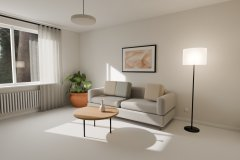
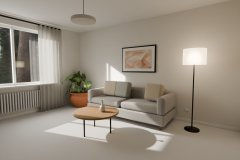
Гостиная (3D): отражения окна и мебели в ламинате (отдельный слой рендера), складки на ткани, эффекты объектива

diff --git a/photo.js b/photo.js
@@ -6,7 +6,7 @@
 //  3) Свет и тени берём с исходного фото: размытая яркость пола / средняя яркость пола.
 import * as THREE from 'three';
 
-const MASK_V = 'v52'; // версия масок = версия сайта (меняется вместе с ?v=), иначе телефон берёт старые из кэша
+const MASK_V = 'v53'; // версия масок = версия сайта (меняется вместе с ?v=), иначе телефон берёт старые из кэша
 const DEFAULT_TEX_W_M = 1.3; // м пола по ширине фото декора (как в 3D)
 
 let renderer, scene, camera, mat, mesh, canvasEl;
@@ -26,7 +26,7 @@ export function initPhoto(canvas) {
   camera = new THREE.OrthographicCamera(-0.5, 0.5, 0.5, -0.5, 0, 1);
   mat = new THREE.ShaderMaterial({
     uniforms: {
-      photo: { value: null }, blurP: { value: null }, medP: { value: null }, gloss: { value: 0.35 }, mask: { value: null }, decor: { value: null },
+      photo: { value: null }, blurP: { value: null }, medP: { value: null }, gloss: { value: 0.35 }, reflT: { value: null }, reflOn: { value: 0 }, mask: { value: null }, decor: { value: null },
       Hinv: { value: new THREE.Matrix3() }, imgSize: { value: new THREE.Vector2(1, 1) },
       texM: { value: new THREE.Vector2(1.3, 0.8) }, meanL: { value: 0.5 }, rot: { value: 0 },
       meanC: { value: new THREE.Vector3(0.3, 0.3, 0.3) }, roomTint: { value: new THREE.Vector3(1, 1, 1) },
@@ -41,7 +41,7 @@ export function initPhoto(canvas) {
     fragmentShader: `
       precision highp float;
       varying vec2 vUv;
-      uniform sampler2D photo, blurP, medP, mask, decor; uniform float gloss;
+      uniform sampler2D photo, blurP, medP, mask, decor, reflT; uniform float gloss, reflOn;
       uniform mat3 Hinv; uniform vec2 imgSize, texM; uniform float meanL, rot, exposure, night, showGrid;
       uniform vec3 tint, meanC, roomTint; uniform vec4 crop; uniform vec2 lampFloor; uniform float hasLamp;
       uniform vec3 skCol; uniform float skOn, skL;
@@ -122,6 +122,8 @@ export function initPhoto(canvas) {
         float refl = max(lum(toLin(BM.rgb)) - lum(toLin(BL.rgb)) * 1.08, 0.0);
         float fres = mix(0.5, 1.3, smoothstep(0.0, 0.6, vUv.y));
         fl += vec3(refl * gloss * fres) * (1.0 - night);
+        // нарисованная комната: настоящие отражения (окно, мебель) из рендера глянцевого пола
+        fl += toLin(texture2D(reflT, uv).rgb) * 0.8 * reflOn * (1.0 - night);
         fl += vec3(0.06 * exp(-r * r / 0.5)) * night * ao * hasLamp; // отражение люстры — если отмечена
         // мягкое «плечо»: яркое не выгорает в белое пятно
         fl = mix(fl, 0.6 + 0.4 * (1.0 - exp(-(fl - 0.6) / 0.4)), step(0.6, fl));
@@ -395,13 +397,21 @@ export function showPhoto(data) {
       Object.assign(mat.uniforms, {});
       mat.uniforms.photo.value = c.photoTex; mat.uniforms.blurP.value = c.blurTex; mat.uniforms.medP.value = c.medTex;
       mat.uniforms.mask.value = c.maskTex; mat.uniforms.meanL.value = c.meanL; mat.uniforms.skL.value = c.skL;
+      mat.uniforms.reflT.value = c.reflTex || c.maskTex; mat.uniforms.reflOn.value = c.reflTex ? 1 : 0;
       mat.uniforms.meanC.value.set(...c.meanC); mat.uniforms.roomTint.value.set(...c.tint);
       updateGeometry(); fitCrop(); render(); ok();
     };
     if (cache[data.id] && cache[data.id].skH !== (skirt && skirt.h)) delete cache[data.id]; // другая высота плинтуса
     if (cache[data.id]) return done({ ...cache[data.id], data });
     const img = new Image();
-    let left = 2;          // ждём фото и уточнённую маску
+    let left = data.render ? 3 : 2;   // ждём фото и уточнённую маску (и отражения — у нарисованной комнаты)
+    let rf = null;
+    if (data.render) {
+      const r = new Image();
+      r.onload = () => { rf = r; ready(); };
+      r.onerror = () => ready();
+      r.src = (window.PHOTO_BASE || '') + 'data/photos/refl/' + data.id + '.jpg?v=' + MASK_V;
+    }
     const mk = new Image();
     mk.onload = () => { data._maskImg = mk; ready(); };
     mk.onerror = () => ready(); // маски нет — режем по многоугольникам
@@ -412,6 +422,7 @@ export function showPhoto(data) {
       data.img = data.img || [img.width, img.height];
       const mask = makeMask(data), light = makeLight(img, mask, !!data.render);
       const c = { photoTex: tex(img), blurTex: light.bigTex, medTex: light.medTex, maskTex: tex(mask), meanL: light.meanL,
+                  reflTex: rf && tex(rf),
                   meanC: light.meanC, tint: light.tint, skL: light.skL, img, skH: skirt && skirt.h };
       cache[data.id] = c;
       done({ ...c, data });

diff --git a/sw.js b/sw.js
@@ -1,8 +1,8 @@
 // Работа без интернета. После первого открытия файлы сайта хранятся в телефоне.
 // При изменении сайта увеличить номер версии — телефоны скачают новые файлы.
-const VERSION = 'v52';
-const FILES = ['./', 'index.html', 'style.css?v=52', 'calc.js?v=52', 'app.js?v=52', 'photo.js?v=52', 'data/photos.json', 'data/demo/laminate_floor_02.jpg',
-  'lib/three.module.min.js', 'lib/qrcode.js?v=52', 'manifest.json', 'icons/icon-192.png', 'data/catalog.json'];
+const VERSION = 'v53';
+const FILES = ['./', 'index.html', 'style.css?v=53', 'calc.js?v=53', 'app.js?v=53', 'photo.js?v=53', 'data/photos.json', 'data/demo/laminate_floor_02.jpg',
+  'lib/three.module.min.js', 'lib/qrcode.js?v=53', 'manifest.json', 'icons/icon-192.png', 'data/catalog.json'];
 
 self.addEventListener('install', e => {
   // cache: 'reload' — мимо кэша браузера (там могут лежать файлы прошлой версии до 10 минут)

diff --git a/index.html b/index.html
@@ -8,7 +8,7 @@
   <link rel="manifest" href="manifest.json">
   <link rel="icon" href="icons/icon-192.png">
   <link rel="apple-touch-icon" href="icons/icon-192.png">
-  <link rel="stylesheet" href="style.css?v=52">
+  <link rel="stylesheet" href="style.css?v=53">
 </head>
 <body>
   <header class="top">
@@ -165,8 +165,8 @@
 
   <!-- three.js подключается по имени 'three' (так его ищут и дополнения) -->
   <script type="importmap">{ "imports": { "three": "./lib/three.module.min.js" } }</script>
-  <script src="lib/qrcode.js?v=52"></script>
-  <script src="calc.js?v=52"></script>
-  <script type="module" src="app.js?v=52"></script>
+  <script src="lib/qrcode.js?v=53"></script>
+  <script src="calc.js?v=53"></script>
+  <script type="module" src="app.js?v=53"></script>
 </body>
 </html>

diff --git a/app.js b/app.js
@@ -1,5 +1,5 @@
 // Главный файл интерфейса. Формулы расчёта — в calc.js, фото комнат — в photo.js.
-import { initPhoto, showPhoto, setPhotoFloor, setPhotoLight, setPhotoSkirting, photoBlob } from './photo.js?v=52';
+import { initPhoto, showPhoto, setPhotoFloor, setPhotoLight, setPhotoSkirting, photoBlob } from './photo.js?v=53';
 
 const $ = s => document.querySelector(s);
 const $$ = s => [...document.querySelectorAll(s)];

diff --git a/tools/blender/room_living.py b/tools/blender/room_living.py
@@ -114,6 +114,9 @@ def box(name, size, loc, material, bevel=0.0, seg=3):
 def soft(name, size, loc, material, r=0.05):
     """Мягкий предмет (подушка, сиденье): скруглённый блок с плавными гранями."""
     o = box(name, size, loc, material, bevel=r, seg=6)
+    sub = o.modifiers.new('сетка', 'SUBSURF'); sub.subdivision_type = 'SIMPLE'; sub.levels = sub.render_levels = 3
+    tx = bpy.data.textures.new(name + ' складки', 'CLOUDS'); tx.noise_scale = 0.12
+    dp = o.modifiers.new('складки', 'DISPLACE'); dp.texture = tx; dp.strength = 0.012; dp.mid_level = 0.5
     o.modifiers.new('плавно', 'WEIGHTED_NORMAL')
     return o
 
@@ -242,16 +245,44 @@ sc.view_settings.view_transform = 'AgX'; sc.view_settings.look = 'AgX - Medium H
 sc.view_settings.exposure = 0.9
 sc.render.resolution_x, sc.render.resolution_y = RES
 sc.view_layers[0].use_pass_object_index = True
+sc.view_layers[0].use_pass_z = True
 sc.use_nodes = True
 nt = sc.node_tree; nt.nodes.clear()
 rl = nt.nodes.new('CompositorNodeRLayers')
-comp = nt.nodes.new('CompositorNodeComposite'); nt.links.new(rl.outputs['Image'], comp.inputs['Image'])
+comp = nt.nodes.new('CompositorNodeComposite')
+# «как фотоаппарат»: свечение вокруг ярких мест, лёгкие цветные края, затемнение по углам
+gl = nt.nodes.new('CompositorNodeGlare'); gl.glare_type = 'FOG_GLOW'; gl.quality = 'HIGH'
+gl.threshold = 0.9; gl.mix = -0.85; gl.size = 8
+ld = nt.nodes.new('CompositorNodeLensdist'); ld.inputs['Dispersion'].default_value = 0.004
+el = nt.nodes.new('CompositorNodeEllipseMask'); el.width = 1.25; el.height = 1.25
+bl = nt.nodes.new('CompositorNodeBlur'); bl.size_x = bl.size_y = 300; bl.use_relative = False
+vm = nt.nodes.new('CompositorNodeMixRGB'); vm.blend_type = 'MULTIPLY'; vm.inputs['Fac'].default_value = 0.25
+nt.links.new(rl.outputs['Image'], gl.inputs['Image']); nt.links.new(gl.outputs['Image'], ld.inputs['Image'])
+nt.links.new(el.outputs['Mask'], bl.inputs['Image'])
+nt.links.new(ld.outputs['Image'], vm.inputs[1]); nt.links.new(bl.outputs['Image'], vm.inputs[2])
+nt.links.new(vm.outputs['Image'], comp.inputs['Image'])
 idm = nt.nodes.new('CompositorNodeIDMask'); idm.index = 1; idm.use_antialiasing = True
 nt.links.new(rl.outputs['IndexOB'], idm.inputs['ID value'])
 fo = nt.nodes.new('CompositorNodeOutputFile'); fo.base_path = str(OUT)
 fo.format.file_format = 'PNG'; fo.format.color_mode = 'BW'; fo.file_slots[0].path = 'floor_mask'
 nt.links.new(idm.outputs['Alpha'], fo.inputs[0])
+# карта глубины для нейросети (ближе — светлее)
+nz = nt.nodes.new('CompositorNodeNormalize'); inv = nt.nodes.new('CompositorNodeInvert')
+nt.links.new(rl.outputs['Depth'], nz.inputs[0]); nt.links.new(nz.outputs[0], inv.inputs['Color'])
+fo.file_slots.new('depth'); nt.links.new(inv.outputs['Color'], fo.inputs[1])
 sc.render.filepath = str(OUT / 'room.png'); sc.render.image_settings.file_format = 'PNG'
+bpy.ops.render.render(write_still=True)
+
+# второй кадр — отражения в полу: пол чёрный глянцевый, в нём видно только отражение комнаты
+fo.mute = True
+floor.data.materials[0] = mat('пол глянец', (0, 0, 0), 0.18)
+sc.render.filepath = str(OUT / 'room_refl.png')
+bpy.ops.render.render(write_still=True)
+
+# третий кадр — для нейросети: пол деревянный (белый пол сбивает её)
+fl = tmat('дуб пола', 'oak_veneer_01', (0.95, 0.9, 0.85), 0.35)
+floor.data.materials[0] = fl
+sc.render.filepath = str(OUT / 'room_ai.png')
 bpy.ops.render.render(write_still=True)
 
 # ---------- перспектива пола для сайта ----------

diff --git a/tools/blender/to_site.py b/tools/blender/to_site.py
@@ -22,6 +22,12 @@ th = cv2.imdecode(np.fromfile(next((P / 'thumbs').glob('r2*.jpg')), np.uint8), 1
 cv2.imencode('.jpg', cv2.resize(img, th.shape[1::-1], interpolation=cv2.INTER_AREA), [cv2.IMWRITE_JPEG_QUALITY, 85])[1].tofile(P / 'thumbs' / f'{rid}.jpg')
 m = cv2.imread(str(src / 'floor_mask0001.png'), 0)
 cv2.imencode('.png', m)[1].tofile(P / 'masks' / f'{rid}.png')
+# отражения в полу: только там, где пол (остальное чёрное — файл маленький)
+rf = cv2.imread(str(src / 'room_refl.png'))
+if rf is not None:
+    (P / 'refl').mkdir(exist_ok=True)
+    rf = (rf.astype(np.float32) * (cv2.GaussianBlur(m, (0, 0), 2)[..., None] / 255.0)).astype(np.uint8)
+    cv2.imencode('.jpg', rf, [cv2.IMWRITE_JPEG_QUALITY, 85])[1].tofile(P / 'refl' / f'{rid}.jpg')
 cs, _ = cv2.findContours((m > 127).astype(np.uint8), cv2.RETR_EXTERNAL, cv2.CHAIN_APPROX_SIMPLE)
 poly = cv2.approxPolyDP(max(cs, key=cv2.contourArea), 2.0, True)[:, 0].tolist()
 r = json.load(open(src / 'room.json'))
